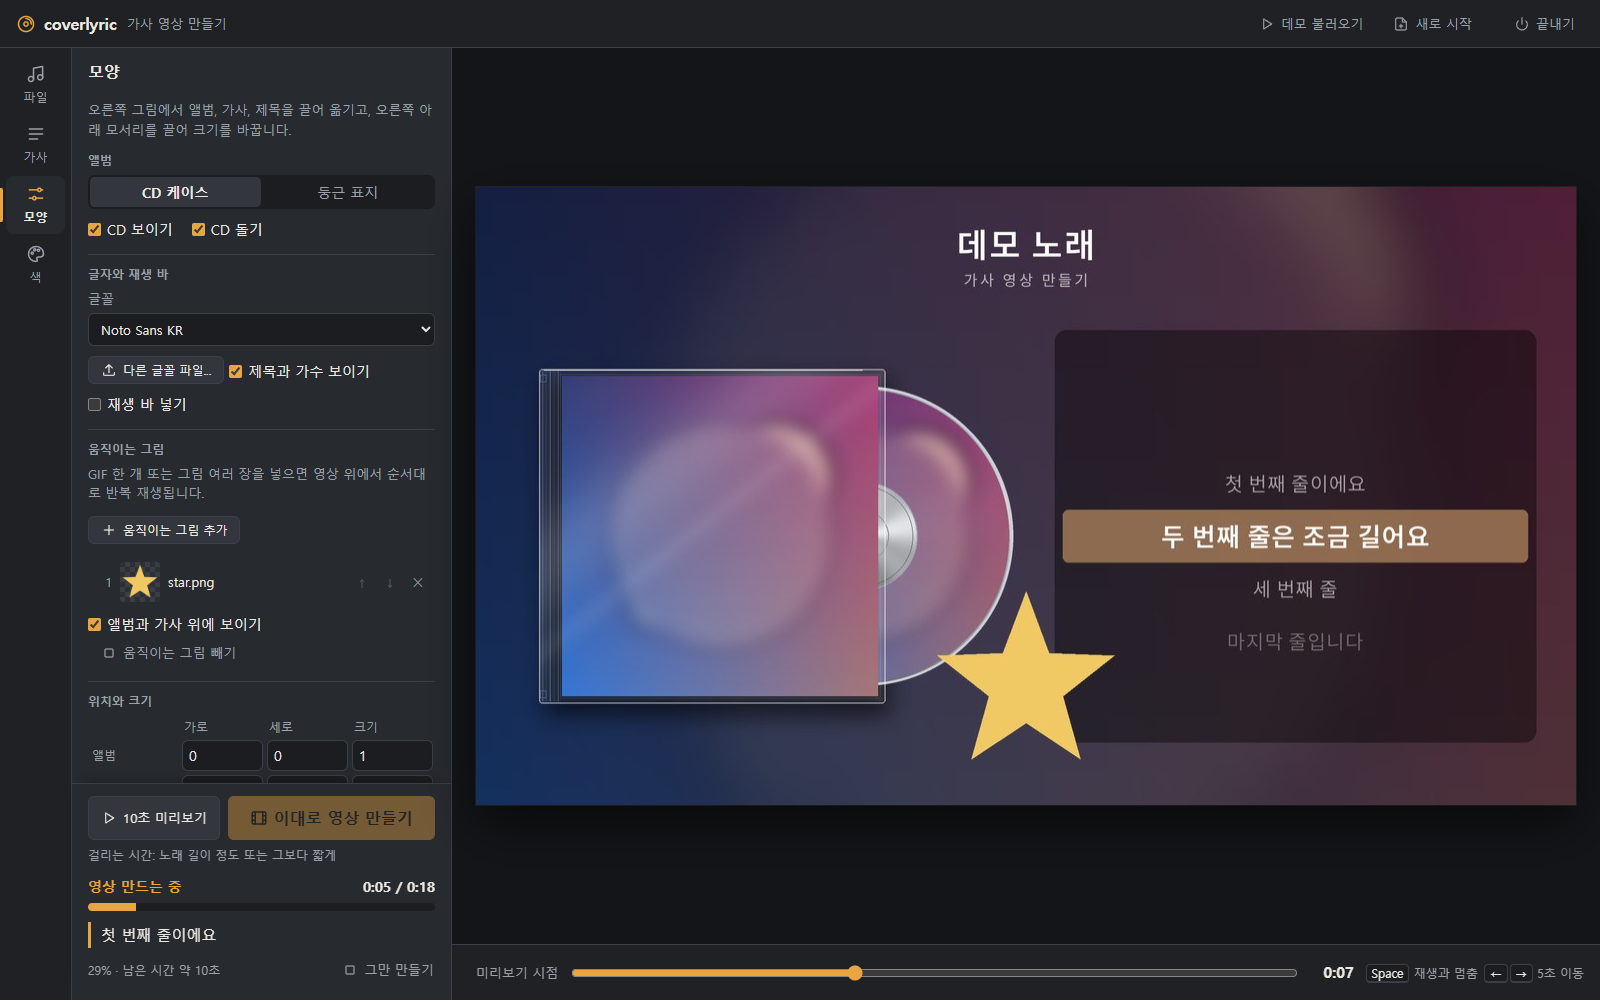
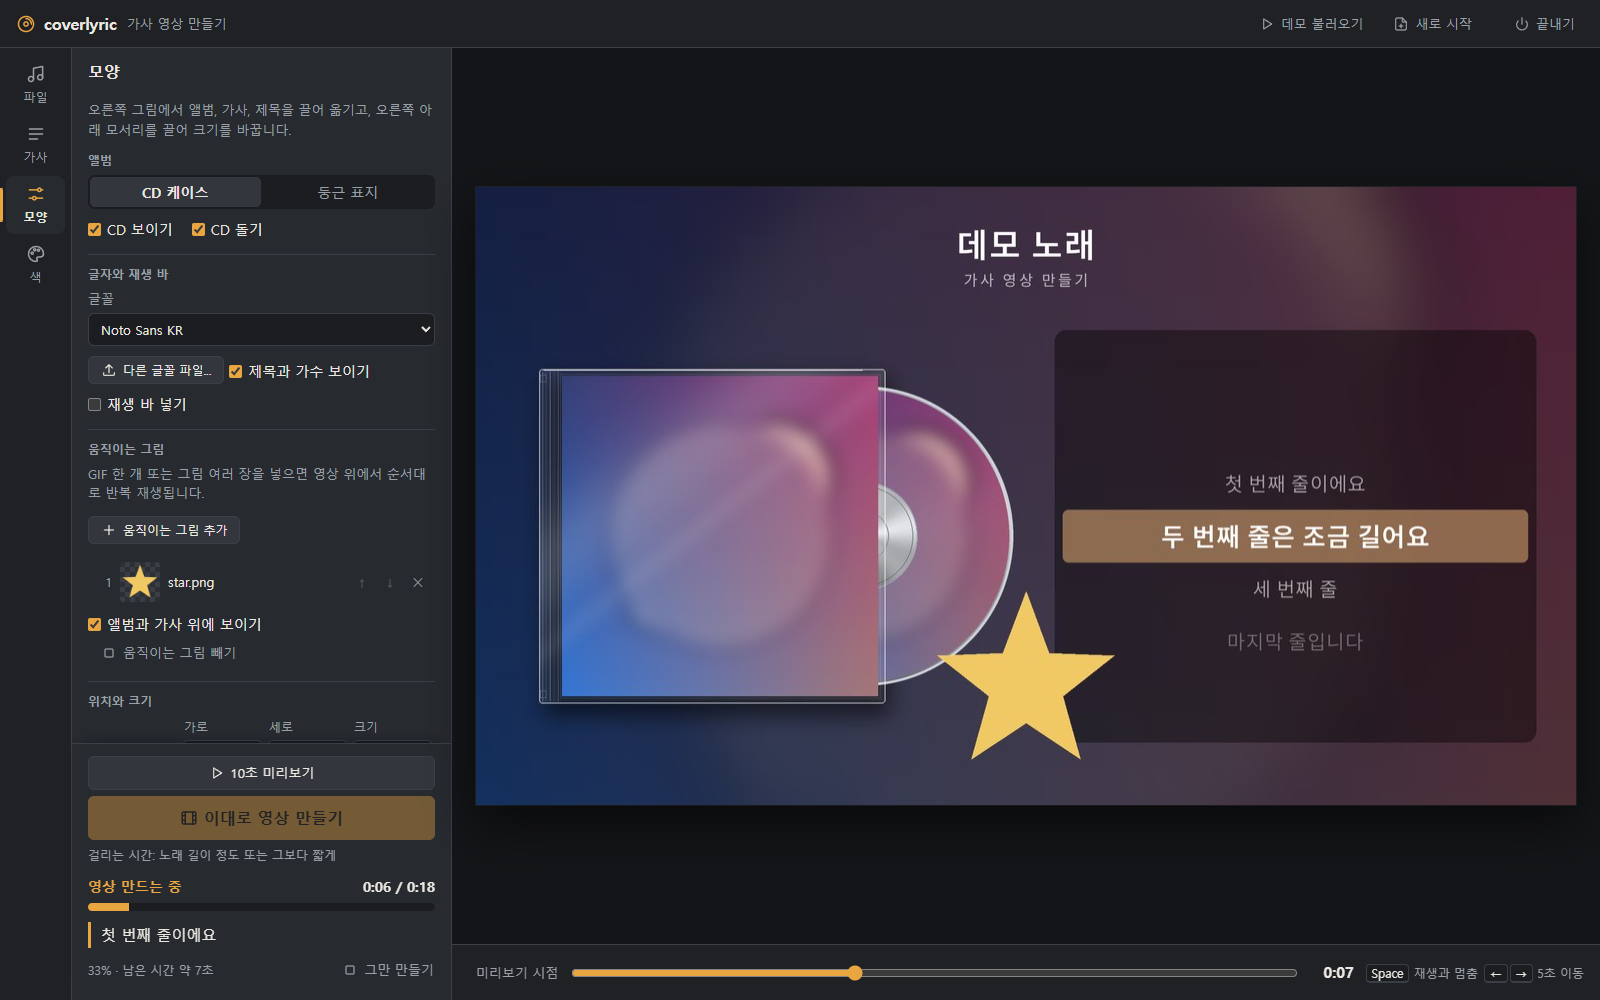
fix(web): stack the preview and make buttons so both fit the panel

Changed region(s): [[0.0312, 0.744, 0.2812, 0.837]]

diff --git a/src/coverlyric/web/app.css b/src/coverlyric/web/app.css
@@ -279,8 +279,8 @@ input[type="range"] { width: 100%; margin: 4px 0; }
 }
 .make .note { margin: 6px 0 0; font-size: 12px; }
 .output-options:empty { display: none; }
-.make-row { display: grid; grid-template-columns: auto 1fr; gap: 8px; }
-#clip-make { height: 44px; padding: 0 12px; white-space: nowrap; }
+.make-row { display: flex; flex-direction: column; gap: 6px; }
+#clip-make { width: 100%; height: 34px; justify-content: center; white-space: nowrap; }
 .output-options { display: flex; flex-wrap: wrap; gap: 8px; margin-bottom: 10px; }
 button.primary {
   width: 100%;

diff --git a/README.en.md b/README.en.md
@@ -81,7 +81,7 @@ stays at the bottom whatever the group. A red dot marks a group that still lacks
    background blur and darkness are in the 색 (colour) group. **움직이는 그림** (moving picture) adds one GIF or several images (png, jpg,
    webp) that loop over the video: reorder them with ↑ ↓, set the frames per second, choose above
    or under the album and lyrics, and drag it on the preview.
-5. **Render:** **10초 미리보기** beside it first makes a small 10 s clip from the preview time and
+5. **Render:** **10초 미리보기** above it first makes a small 10 s clip from the preview time and
    plays it in place of the still (**미리보기 닫기** closes it). Press **이대로 영상 만들기**. While it renders, the page shows how far into the song
    the video is made (for example 0:04 / 0:18), the lyric line at that point, the percent and the
    time left. It usually takes less than the song's length, depending on the PC.
